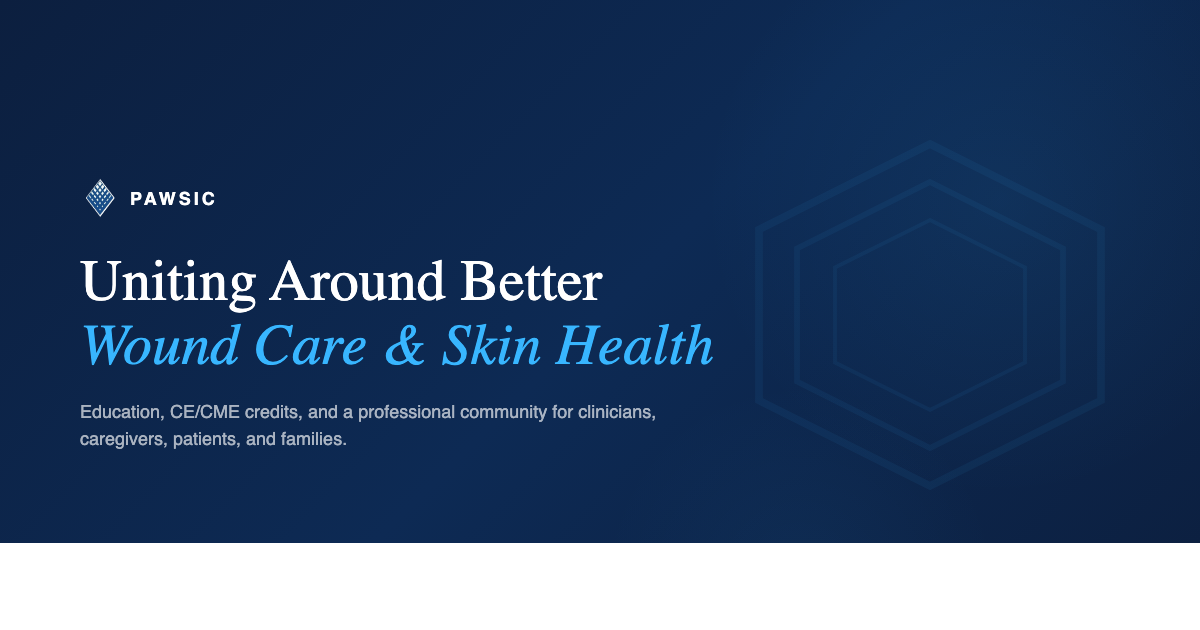
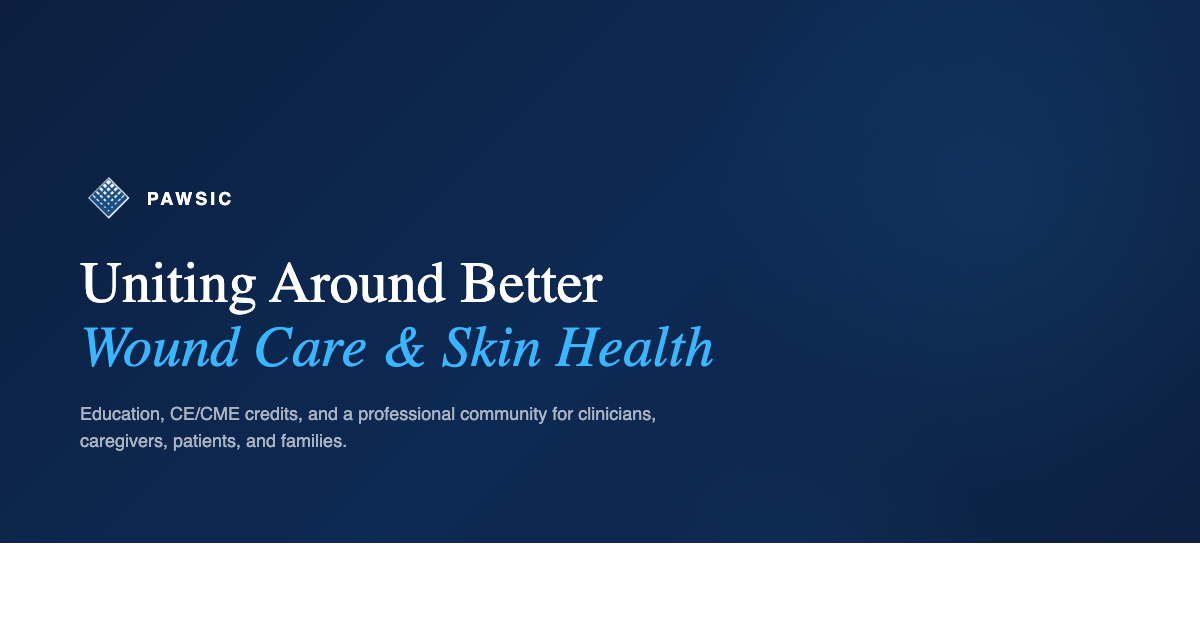
Production deploy: 2026-04-02 21:27

diff --git a/images/_pawsic-og-generator.html b/images/_pawsic-og-generator.html
@@ -61,29 +61,15 @@
     line-height: 1.5;
     font-weight: 400;
   }
-  .right-decoration {
-    position: absolute;
-    right: 80px;
-    top: 50%;
-    transform: translateY(-50%);
-    opacity: 0.06;
-    z-index: 1;
-  }
 </style>
 </head>
 <body>
   <div class="bg-circle bg-circle-1"></div>
   <div class="bg-circle bg-circle-2"></div>
 
-  <svg class="right-decoration" width="380" height="380" viewBox="0 0 100 100">
-    <polygon points="50,5 95,27.5 95,72.5 50,95 5,72.5 5,27.5" fill="none" stroke="#38B6FF" stroke-width="2"/>
-    <polygon points="50,15 85,32.5 85,67.5 50,85 15,67.5 15,32.5" fill="none" stroke="#38B6FF" stroke-width="1.5"/>
-    <polygon points="50,25 75,37.5 75,62.5 50,75 25,62.5 25,37.5" fill="none" stroke="#38B6FF" stroke-width="1"/>
-  </svg>
-
   <div class="content">
     <div class="logo-row">
-      <img src="pawsic-diamond.png" class="logo-diamond" alt="PAWSIC">
+      <img src="pawsic-diamond.png" class="logo-diamond" alt="PAWSIC" style="height:44px;width:auto;object-fit:contain;">
       <span class="logo-name">PAWSIC</span>
     </div>
     <h1>Uniting Around Better<br><em>Wound Care &amp; Skin Health</em></h1>

diff --git a/images/_pawsic-favicon-generator.html b/images/_pawsic-favicon-generator.html
@@ -1,0 +1,47 @@
+<!DOCTYPE html>
+<html>
+<head>
+<meta charset="UTF-8">
+<style>
+  * { margin: 0; padding: 0; box-sizing: border-box; }
+  body {
+    width: 512px;
+    height: 512px;
+    overflow: hidden;
+    background: transparent;
+    display: flex;
+    align-items: center;
+    justify-content: center;
+  }
+  .icon-bg {
+    width: 512px;
+    height: 512px;
+    background: #0C1F3F;
+    border-radius: 115px;
+    display: flex;
+    align-items: center;
+    justify-content: center;
+    position: relative;
+  }
+  .icon-bg::before {
+    content: '';
+    position: absolute;
+    inset: 0;
+    border-radius: 115px;
+    background: radial-gradient(circle at 35% 35%, rgba(56,182,255,0.12) 0%, transparent 65%);
+  }
+  img {
+    width: 290px;
+    height: 290px;
+    object-fit: contain;
+    position: relative;
+    z-index: 1;
+  }
+</style>
+</head>
+<body>
+  <div class="icon-bg">
+    <img src="pawsic-diamond.png" alt="PAWSIC">
+  </div>
+</body>
+</html>

diff --git a/accessibility.html b/accessibility.html
@@ -20,6 +20,10 @@
   <link href="https://fonts.googleapis.com/css2?family=DM+Serif+Display:ital@0;1&family=Inter:wght@400;500;600;700;800&display=swap" rel="stylesheet">
   <link rel="stylesheet" href="/css/style.css">
   <link rel="stylesheet" href="/css/v2-overrides.css">
+  <link rel="icon" type="image/png" sizes="32x32" href="/images/pawsic-favicon-32.png">
+  <link rel="icon" type="image/png" sizes="16x16" href="/images/pawsic-favicon-16.png">
+  <link rel="apple-touch-icon" sizes="180x180" href="/images/pawsic-apple-touch-icon.png">
+  <link rel="icon" type="image/png" sizes="192x192" href="/images/pawsic-favicon-192.png">
 </head>
 <body>
 

diff --git a/accessibility/index.html b/accessibility/index.html
@@ -20,6 +20,10 @@
   <link href="https://fonts.googleapis.com/css2?family=DM+Serif+Display:ital@0;1&family=Inter:wght@400;500;600;700;800&display=swap" rel="stylesheet">
   <link rel="stylesheet" href="/css/style.css">
   <link rel="stylesheet" href="/css/v2-overrides.css">
+  <link rel="icon" type="image/png" sizes="32x32" href="/images/pawsic-favicon-32.png">
+  <link rel="icon" type="image/png" sizes="16x16" href="/images/pawsic-favicon-16.png">
+  <link rel="apple-touch-icon" sizes="180x180" href="/images/pawsic-apple-touch-icon.png">
+  <link rel="icon" type="image/png" sizes="192x192" href="/images/pawsic-favicon-192.png">
 </head>
 <body>
 

diff --git a/disclaimers.html b/disclaimers.html
@@ -20,6 +20,10 @@
   <link href="https://fonts.googleapis.com/css2?family=DM+Serif+Display:ital@0;1&family=Inter:wght@400;500;600;700;800&display=swap" rel="stylesheet">
   <link rel="stylesheet" href="/css/style.css">
   <link rel="stylesheet" href="/css/v2-overrides.css">
+  <link rel="icon" type="image/png" sizes="32x32" href="/images/pawsic-favicon-32.png">
+  <link rel="icon" type="image/png" sizes="16x16" href="/images/pawsic-favicon-16.png">
+  <link rel="apple-touch-icon" sizes="180x180" href="/images/pawsic-apple-touch-icon.png">
+  <link rel="icon" type="image/png" sizes="192x192" href="/images/pawsic-favicon-192.png">
 </head>
 <body>
 

diff --git a/disclaimers/index.html b/disclaimers/index.html
@@ -20,6 +20,10 @@
   <link href="https://fonts.googleapis.com/css2?family=DM+Serif+Display:ital@0;1&family=Inter:wght@400;500;600;700;800&display=swap" rel="stylesheet">
   <link rel="stylesheet" href="/css/style.css">
   <link rel="stylesheet" href="/css/v2-overrides.css">
+  <link rel="icon" type="image/png" sizes="32x32" href="/images/pawsic-favicon-32.png">
+  <link rel="icon" type="image/png" sizes="16x16" href="/images/pawsic-favicon-16.png">
+  <link rel="apple-touch-icon" sizes="180x180" href="/images/pawsic-apple-touch-icon.png">
+  <link rel="icon" type="image/png" sizes="192x192" href="/images/pawsic-favicon-192.png">
 </head>
 <body>
 

diff --git a/privacy-policy.html b/privacy-policy.html
@@ -20,6 +20,10 @@
   <link href="https://fonts.googleapis.com/css2?family=DM+Serif+Display:ital@0;1&family=Inter:wght@400;500;600;700;800&display=swap" rel="stylesheet">
   <link rel="stylesheet" href="/css/style.css">
   <link rel="stylesheet" href="/css/v2-overrides.css">
+  <link rel="icon" type="image/png" sizes="32x32" href="/images/pawsic-favicon-32.png">
+  <link rel="icon" type="image/png" sizes="16x16" href="/images/pawsic-favicon-16.png">
+  <link rel="apple-touch-icon" sizes="180x180" href="/images/pawsic-apple-touch-icon.png">
+  <link rel="icon" type="image/png" sizes="192x192" href="/images/pawsic-favicon-192.png">
 </head>
 <body>
 

diff --git a/privacy-policy/index.html b/privacy-policy/index.html
@@ -20,6 +20,10 @@
   <link href="https://fonts.googleapis.com/css2?family=DM+Serif+Display:ital@0;1&family=Inter:wght@400;500;600;700;800&display=swap" rel="stylesheet">
   <link rel="stylesheet" href="/css/style.css">
   <link rel="stylesheet" href="/css/v2-overrides.css">
+  <link rel="icon" type="image/png" sizes="32x32" href="/images/pawsic-favicon-32.png">
+  <link rel="icon" type="image/png" sizes="16x16" href="/images/pawsic-favicon-16.png">
+  <link rel="apple-touch-icon" sizes="180x180" href="/images/pawsic-apple-touch-icon.png">
+  <link rel="icon" type="image/png" sizes="192x192" href="/images/pawsic-favicon-192.png">
 </head>
 <body>
 

diff --git a/community.html b/community.html
@@ -450,6 +450,10 @@
       white-space: nowrap;
     }
   </style>
+  <link rel="icon" type="image/png" sizes="32x32" href="/images/pawsic-favicon-32.png">
+  <link rel="icon" type="image/png" sizes="16x16" href="/images/pawsic-favicon-16.png">
+  <link rel="apple-touch-icon" sizes="180x180" href="/images/pawsic-apple-touch-icon.png">
+  <link rel="icon" type="image/png" sizes="192x192" href="/images/pawsic-favicon-192.png">
 </head>
 <body>
 

diff --git a/community/index.html b/community/index.html
@@ -450,6 +450,10 @@
       white-space: nowrap;
     }
   </style>
+  <link rel="icon" type="image/png" sizes="32x32" href="/images/pawsic-favicon-32.png">
+  <link rel="icon" type="image/png" sizes="16x16" href="/images/pawsic-favicon-16.png">
+  <link rel="apple-touch-icon" sizes="180x180" href="/images/pawsic-apple-touch-icon.png">
+  <link rel="icon" type="image/png" sizes="192x192" href="/images/pawsic-favicon-192.png">
 </head>
 <body>
 

diff --git a/community/skin-failure-sig/index.html b/community/skin-failure-sig/index.html
@@ -431,6 +431,10 @@
       z-index: 1;
     }
   </style>
+  <link rel="icon" type="image/png" sizes="32x32" href="/images/pawsic-favicon-32.png">
+  <link rel="icon" type="image/png" sizes="16x16" href="/images/pawsic-favicon-16.png">
+  <link rel="apple-touch-icon" sizes="180x180" href="/images/pawsic-apple-touch-icon.png">
+  <link rel="icon" type="image/png" sizes="192x192" href="/images/pawsic-favicon-192.png">
 </head>
 <body>
 

diff --git a/skin-failure-sig.html b/skin-failure-sig.html
@@ -431,6 +431,10 @@
       z-index: 1;
     }
   </style>
+  <link rel="icon" type="image/png" sizes="32x32" href="/images/pawsic-favicon-32.png">
+  <link rel="icon" type="image/png" sizes="16x16" href="/images/pawsic-favicon-16.png">
+  <link rel="apple-touch-icon" sizes="180x180" href="/images/pawsic-apple-touch-icon.png">
+  <link rel="icon" type="image/png" sizes="192x192" href="/images/pawsic-favicon-192.png">
 </head>
 <body>
 
